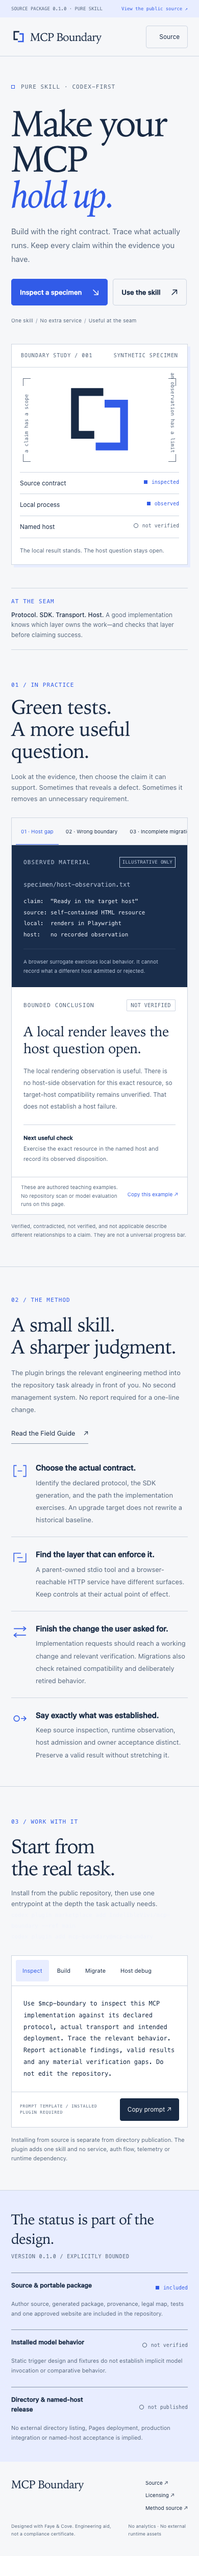
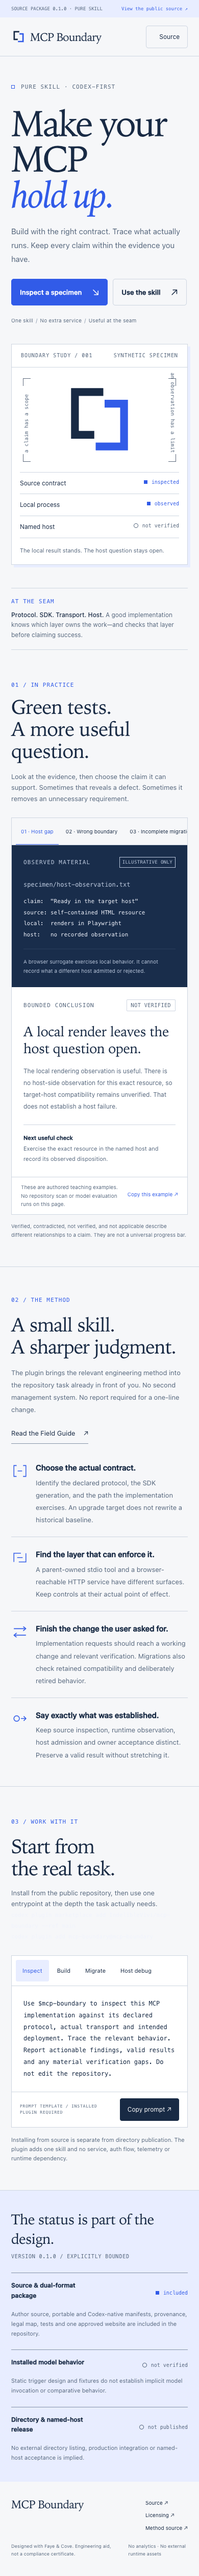
align published status copy

diff --git a/mcp-boundary-demo.html b/mcp-boundary-demo.html
@@ -320,7 +320,7 @@ host:   no recorded observation</pre><p class="case-input-note" id="case-note">A
 </div></div></section>
 <section class="wrap section" id="workflows" aria-labelledby="workflow-heading"><div class="workflow-layout"><div class="workflow-intro"><span class="eyebrow section-number">03 / Work with it</span><h2 id="workflow-heading">Start from<br>the real task.</h2><p>Install from the public repository, then use one entrypoint at the depth the task actually needs.</p><pre class="code-lines">codex plugin marketplace add IndelibleVivi/mcp-boundary --ref main
 codex plugin add mcp-boundary@mcp-boundary</pre></div><div><div class="prompt-box"><div class="prompt-tabs" role="group" aria-label="Workflow prompt"><button class="prompt-tab" data-prompt="inspect" aria-pressed="true">Inspect</button><button class="prompt-tab" data-prompt="build" aria-pressed="false">Build</button><button class="prompt-tab" data-prompt="migrate" aria-pressed="false">Migrate</button><button class="prompt-tab" data-prompt="host" aria-pressed="false">Host debug</button></div><p class="prompt-text" id="prompt-text">Use $mcp-boundary to inspect this MCP implementation against its declared protocol, actual transport and intended deployment. Trace the relevant behavior. Report actionable findings, valid results and any material verification gaps. Do not edit the repository.</p><div class="prompt-bottom"><span class="micro">Prompt template / installed plugin required</span><button id="copy-prompt">Copy prompt <span aria-hidden="true">↗</span></button></div></div><p class="prompt-disclaimer">Installing from source is separate from directory publication. The plugin adds one skill and no service, auth flow, telemetry or runtime dependency.</p></div></div></section>
-<section class="evidence-section" id="status" aria-labelledby="status-heading"><div class="wrap"><div class="evidence-heading"><h2 id="status-heading">The status is part of the design.</h2><p>Version 0.1.0 / explicitly bounded</p></div><div class="evidence-grid"><div class="evidence-cell"><h3>Source & portable package</h3><span class="state observed">included</span><p>Author source, generated package, provenance, legal map, tests and one approved website are included in the repository.</p></div><div class="evidence-cell"><h3>Installed model behavior</h3><span class="state unknown">not verified</span><p>Static trigger design and fixtures do not establish implicit model invocation or comparative behavior.</p></div><div class="evidence-cell"><h3>Directory & named-host release</h3><span class="state unknown">not published</span><p>No external directory listing, Pages deployment, production integration or named-host acceptance is implied.</p></div></div></div></section>
+<section class="evidence-section" id="status" aria-labelledby="status-heading"><div class="wrap"><div class="evidence-heading"><h2 id="status-heading">The status is part of the design.</h2><p>Version 0.1.0 / explicitly bounded</p></div><div class="evidence-grid"><div class="evidence-cell"><h3>Source & dual-format package</h3><span class="state observed">included</span><p>Author source, portable and Codex-native manifests, provenance, legal map, tests and one approved website are included in the repository.</p></div><div class="evidence-cell"><h3>Installed model behavior</h3><span class="state unknown">not verified</span><p>Static trigger design and fixtures do not establish implicit model invocation or comparative behavior.</p></div><div class="evidence-cell"><h3>Directory & named-host release</h3><span class="state unknown">not published</span><p>No external directory listing, production integration or named-host acceptance is implied.</p></div></div></div></section>
 </main>
 <footer class="site-footer"><div class="wrap"><div class="footer-top"><span class="footer-name">MCP Boundary</span><nav class="footer-links" aria-label="Footer"><a href="https://github.com/IndelibleVivi/mcp-boundary" target="_blank" rel="noopener noreferrer">Source ↗</a><a href="https://github.com/IndelibleVivi/mcp-boundary/blob/main/LICENSING.md" target="_blank" rel="noopener noreferrer">Licensing ↗</a><a href="https://github.com/IndelibleVivi/mcp-server-engineering-field-guide" target="_blank" rel="noopener noreferrer">Method source ↗</a></nav></div><div class="footer-bottom"><p>Designed with Faye & Cove. Engineering aid, not a compliance certificate.</p><p>No analytics · No external runtime assets</p></div></div></footer>
 <dialog id="copy-dialog" aria-labelledby="copy-title"><div class="dialog-inner"><div class="dialog-heading"><h2 id="copy-title">Copy manually</h2><button class="dialog-close" data-close-dialog aria-label="Close copy dialog">×</button></div><p class="dialog-caption">This browser did not allow clipboard access. Select the text below and use your normal copy command.</p><textarea class="fallback-copy" id="copy-fallback" readonly aria-label="Text to copy"></textarea></div></dialog>

diff --git a/site/index.html b/site/index.html
@@ -53,7 +53,7 @@ host:   no recorded observation</pre><p class="case-input-note" id="case-note">A
 </div></div></section>
 <section class="wrap section" id="workflows" aria-labelledby="workflow-heading"><div class="workflow-layout"><div class="workflow-intro"><span class="eyebrow section-number">03 / Work with it</span><h2 id="workflow-heading">Start from<br>the real task.</h2><p>Install from the public repository, then use one entrypoint at the depth the task actually needs.</p><pre class="code-lines">codex plugin marketplace add IndelibleVivi/mcp-boundary --ref main
 codex plugin add mcp-boundary@mcp-boundary</pre></div><div><div class="prompt-box"><div class="prompt-tabs" role="group" aria-label="Workflow prompt"><button class="prompt-tab" data-prompt="inspect" aria-pressed="true">Inspect</button><button class="prompt-tab" data-prompt="build" aria-pressed="false">Build</button><button class="prompt-tab" data-prompt="migrate" aria-pressed="false">Migrate</button><button class="prompt-tab" data-prompt="host" aria-pressed="false">Host debug</button></div><p class="prompt-text" id="prompt-text">Use $mcp-boundary to inspect this MCP implementation against its declared protocol, actual transport and intended deployment. Trace the relevant behavior. Report actionable findings, valid results and any material verification gaps. Do not edit the repository.</p><div class="prompt-bottom"><span class="micro">Prompt template / installed plugin required</span><button id="copy-prompt">Copy prompt <span aria-hidden="true">↗</span></button></div></div><p class="prompt-disclaimer">Installing from source is separate from directory publication. The plugin adds one skill and no service, auth flow, telemetry or runtime dependency.</p></div></div></section>
-<section class="evidence-section" id="status" aria-labelledby="status-heading"><div class="wrap"><div class="evidence-heading"><h2 id="status-heading">The status is part of the design.</h2><p>Version 0.1.0 / explicitly bounded</p></div><div class="evidence-grid"><div class="evidence-cell"><h3>Source & portable package</h3><span class="state observed">included</span><p>Author source, generated package, provenance, legal map, tests and one approved website are included in the repository.</p></div><div class="evidence-cell"><h3>Installed model behavior</h3><span class="state unknown">not verified</span><p>Static trigger design and fixtures do not establish implicit model invocation or comparative behavior.</p></div><div class="evidence-cell"><h3>Directory & named-host release</h3><span class="state unknown">not published</span><p>No external directory listing, Pages deployment, production integration or named-host acceptance is implied.</p></div></div></div></section>
+<section class="evidence-section" id="status" aria-labelledby="status-heading"><div class="wrap"><div class="evidence-heading"><h2 id="status-heading">The status is part of the design.</h2><p>Version 0.1.0 / explicitly bounded</p></div><div class="evidence-grid"><div class="evidence-cell"><h3>Source & dual-format package</h3><span class="state observed">included</span><p>Author source, portable and Codex-native manifests, provenance, legal map, tests and one approved website are included in the repository.</p></div><div class="evidence-cell"><h3>Installed model behavior</h3><span class="state unknown">not verified</span><p>Static trigger design and fixtures do not establish implicit model invocation or comparative behavior.</p></div><div class="evidence-cell"><h3>Directory & named-host release</h3><span class="state unknown">not published</span><p>No external directory listing, production integration or named-host acceptance is implied.</p></div></div></div></section>
 </main>
 <footer class="site-footer"><div class="wrap"><div class="footer-top"><span class="footer-name">MCP Boundary</span><nav class="footer-links" aria-label="Footer"><a href="https://github.com/IndelibleVivi/mcp-boundary" target="_blank" rel="noopener noreferrer">Source ↗</a><a href="https://github.com/IndelibleVivi/mcp-boundary/blob/main/LICENSING.md" target="_blank" rel="noopener noreferrer">Licensing ↗</a><a href="https://github.com/IndelibleVivi/mcp-server-engineering-field-guide" target="_blank" rel="noopener noreferrer">Method source ↗</a></nav></div><div class="footer-bottom"><p>Designed with Faye & Cove. Engineering aid, not a compliance certificate.</p><p>No analytics · No external runtime assets</p></div></div></footer>
 <dialog id="copy-dialog" aria-labelledby="copy-title"><div class="dialog-inner"><div class="dialog-heading"><h2 id="copy-title">Copy manually</h2><button class="dialog-close" data-close-dialog aria-label="Close copy dialog">×</button></div><p class="dialog-caption">This browser did not allow clipboard access. Select the text below and use your normal copy command.</p><textarea class="fallback-copy" id="copy-fallback" readonly aria-label="Text to copy"></textarea></div></dialog>
